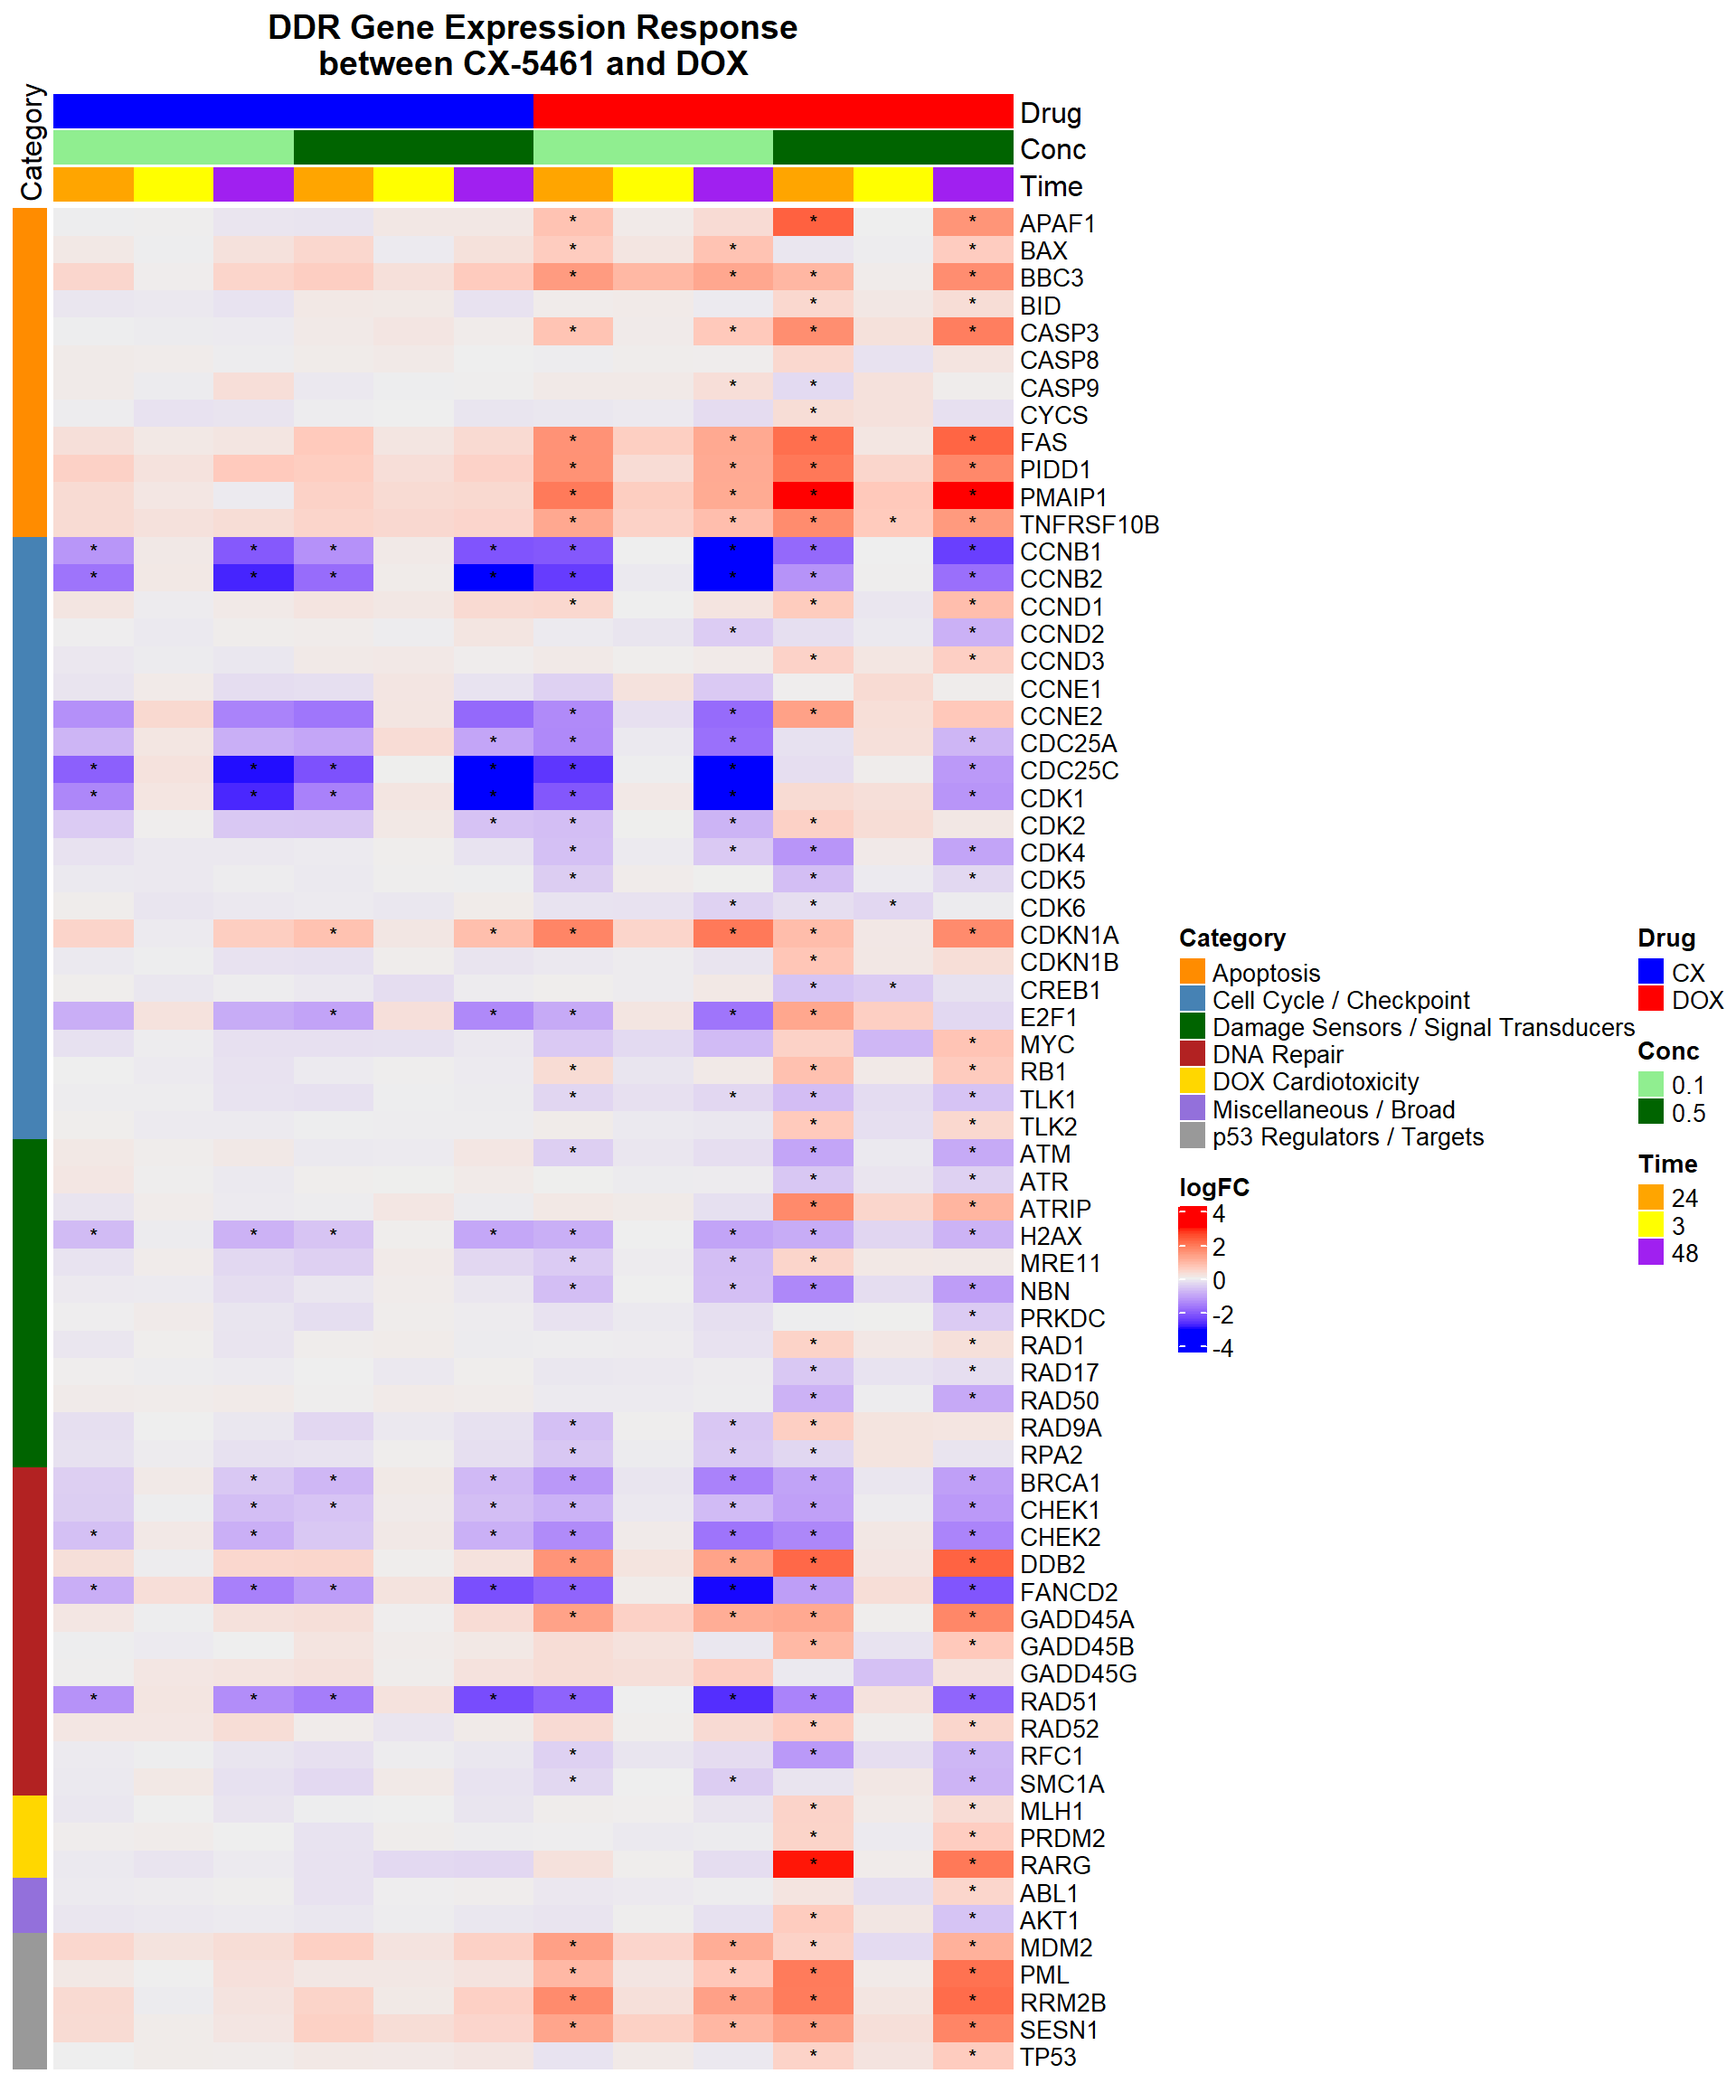
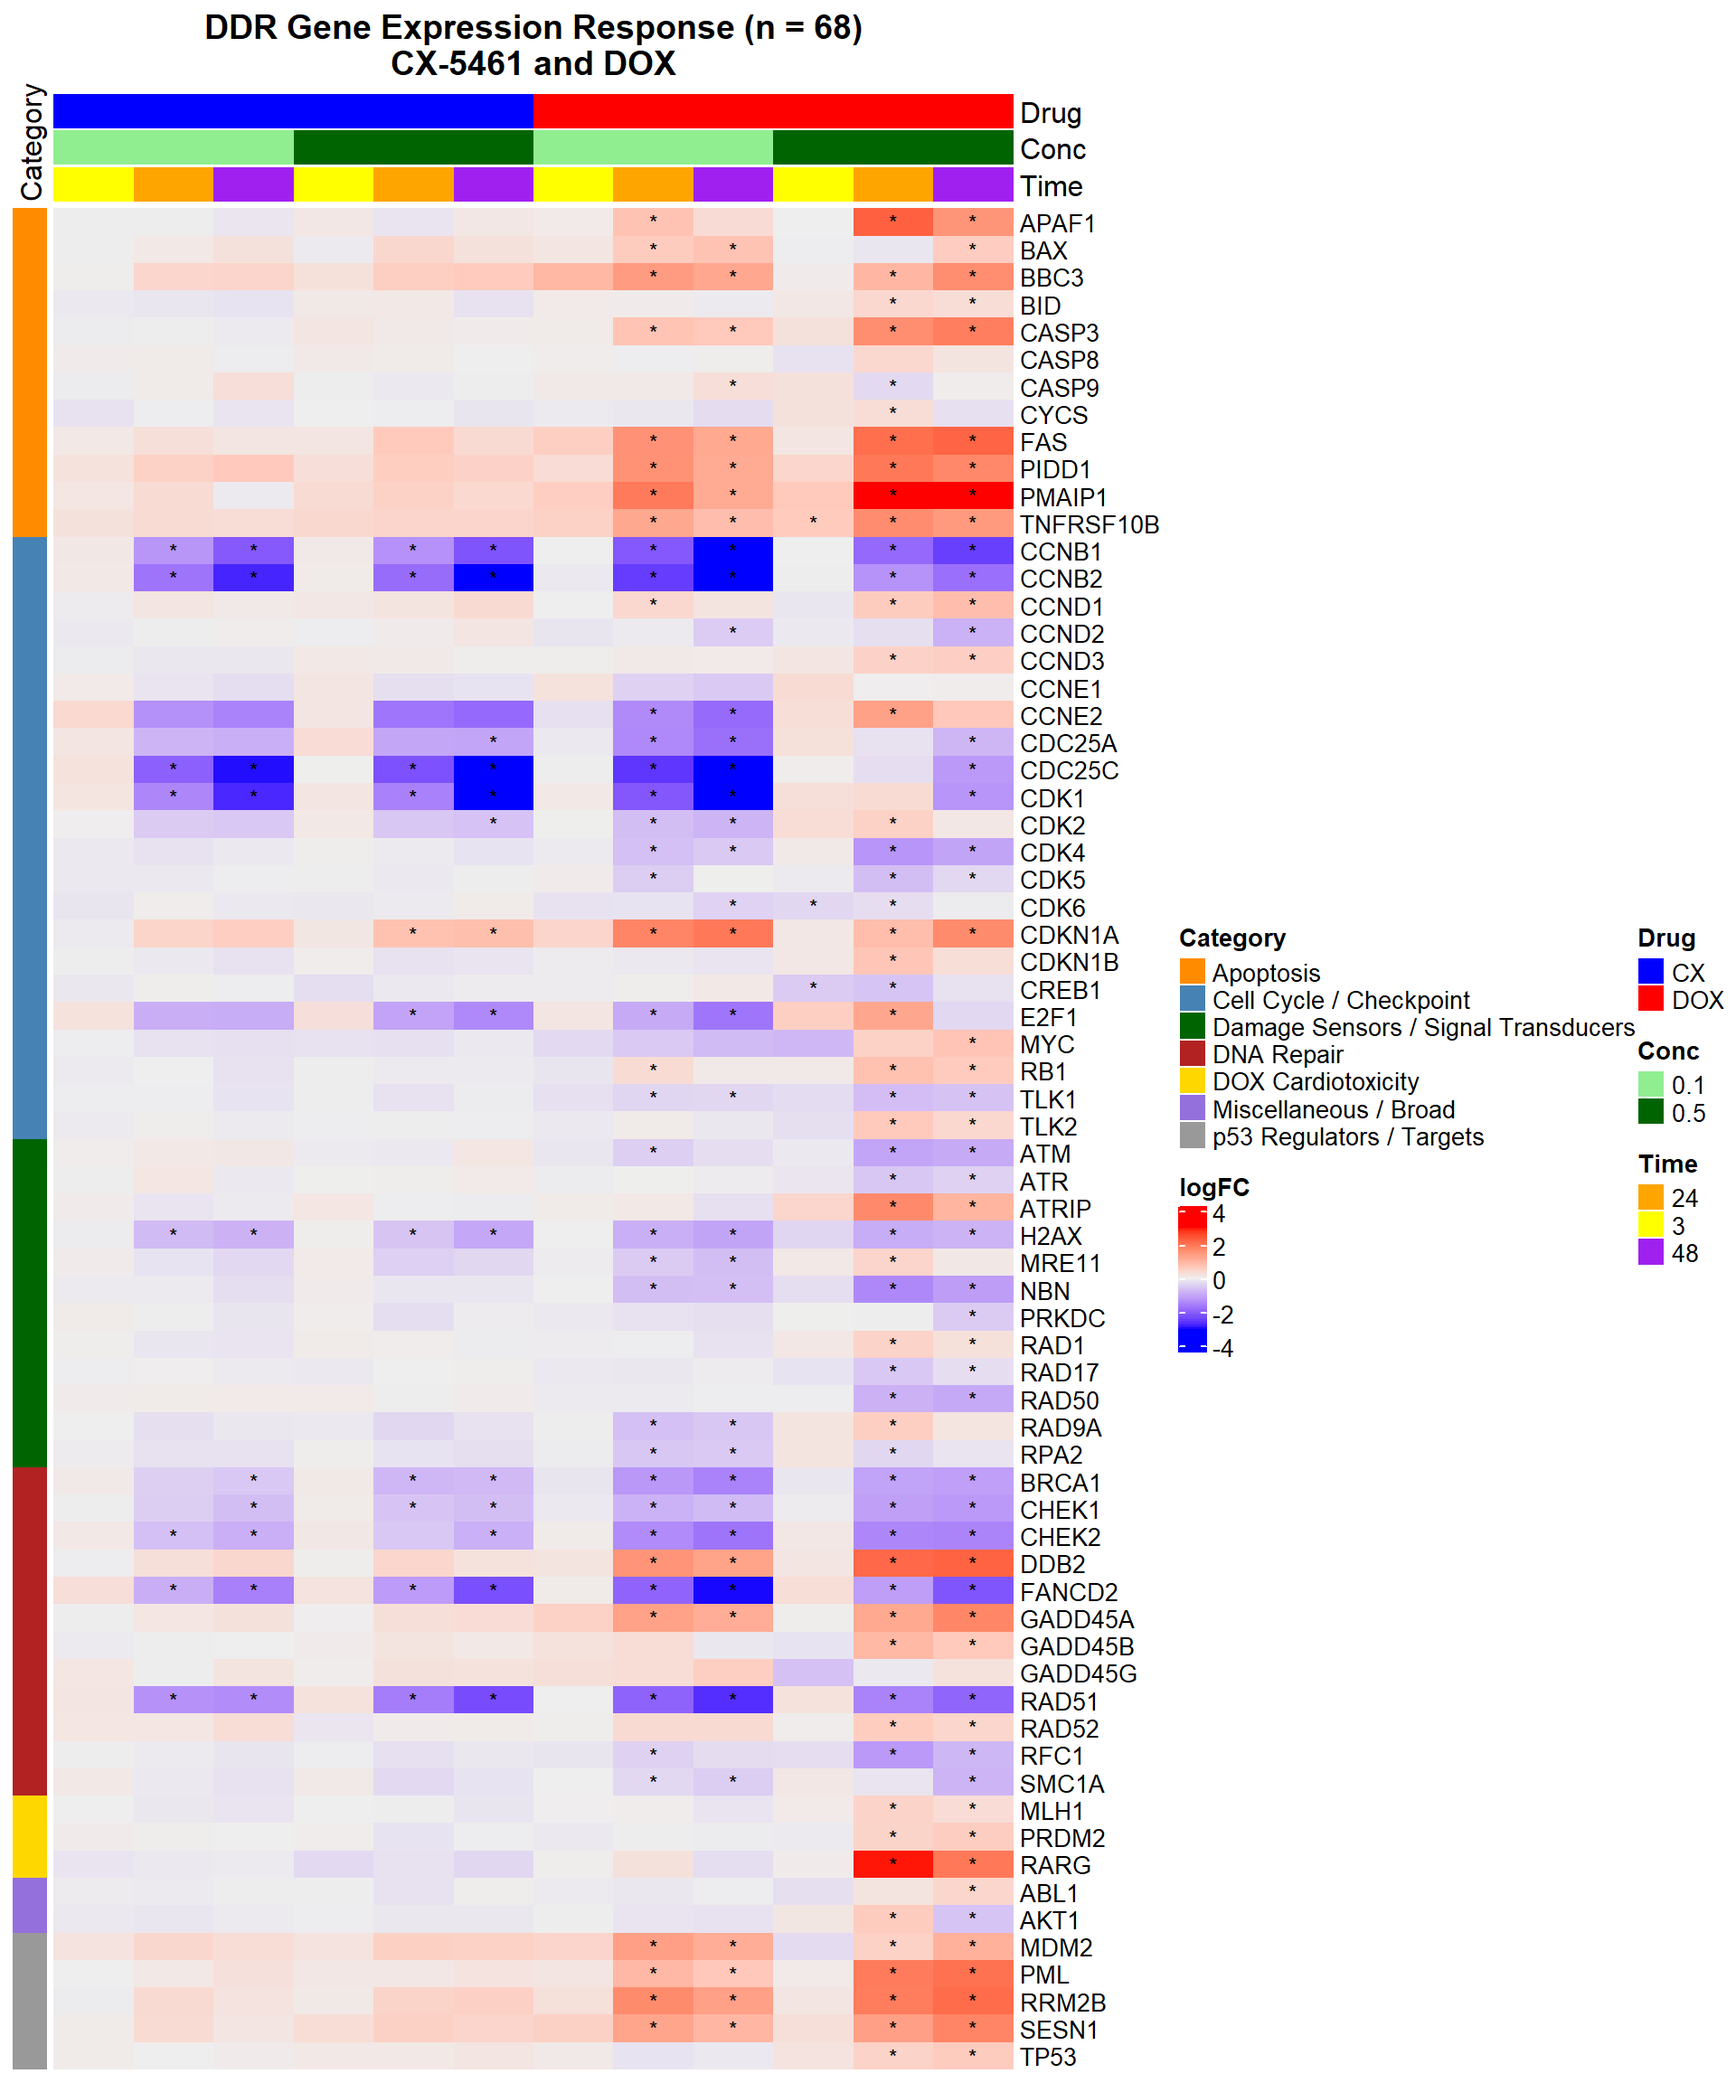
Commit

diff --git a/docs/DGE_Analysis.html b/docs/DGE_Analysis.html
@@ -357,7 +357,7 @@ div.tocify {
 <p>
 <button type="button" class="btn btn-default btn-workflowr btn-workflowr-report" data-toggle="collapse" data-target="#workflowr-report">
 <span class="glyphicon glyphicon-list" aria-hidden="true"></span>
-workflowr <span class="glyphicon glyphicon-ok text-success"
+workflowr <span class="glyphicon glyphicon-exclamation-sign text-danger"
 aria-hidden="true"></span>
 </button>
 </p>
@@ -368,8 +368,8 @@ aria-hidden="true"></span>
 </li>
 <li>
 <a data-toggle="tab" href="#checks"> Checks <span
-class="glyphicon glyphicon-ok text-success" aria-hidden="true"></span>
-</a>
+class="glyphicon glyphicon-exclamation-sign text-danger"
+aria-hidden="true"></span> </a>
 </li>
 <li>
 <a data-toggle="tab" href="#versions">Past versions</a>
@@ -382,9 +382,9 @@ class="glyphicon glyphicon-ok text-success" aria-hidden="true"></span>
 </p>
 <p>
 <strong>Checks:</strong> <span
-class="glyphicon glyphicon-ok text-success" aria-hidden="true"></span> 7
+class="glyphicon glyphicon-ok text-success" aria-hidden="true"></span> 6
 <span class="glyphicon glyphicon-exclamation-sign text-danger"
-aria-hidden="true"></span> 0
+aria-hidden="true"></span> 1
 </p>
 <p>
 <strong>Knit directory:</strong> <code>CX5461_Project/</code> <span
@@ -407,18 +407,21 @@ versions</em> tab lists the development history.
 <div class="panel panel-default">
 <div class="panel-heading">
 <p class="panel-title">
-<a data-toggle="collapse" data-parent="#workflowr-checks" href="#strongRMarkdownfilestronguptodate">
-<span class="glyphicon glyphicon-ok text-success"
-aria-hidden="true"></span> <strong>R Markdown file:</strong> up-to-date
-</a>
+<a data-toggle="collapse" data-parent="#workflowr-checks" href="#strongRMarkdownfilestronguncommittedchanges">
+<span class="glyphicon glyphicon-exclamation-sign text-danger"
+aria-hidden="true"></span> <strong>R Markdown file:</strong> uncommitted
+changes </a>
 </p>
 </div>
-<div id="strongRMarkdownfilestronguptodate"
+<div id="strongRMarkdownfilestronguncommittedchanges"
 class="panel-collapse collapse">
 <div class="panel-body">
-<p>Great! Since the R Markdown file has been committed to the Git
-repository, you know the exact version of the code that produced these
-results.</p>
+<p>The R Markdown file has unstaged changes. To know which version of
+the R Markdown file created these results, you’ll want to first commit
+it to the Git repo. If you’re still working on the analysis, you can
+ignore this warning. When you’re finished, you can run
+<code>wflow_publish</code> to commit the R Markdown file and build the
+HTML.</p>
 </div>
 </div>
 </div>
@@ -509,15 +512,15 @@ project makes it easier to run your code on other machines.</p>
 <div class="panel panel-default">
 <div class="panel-heading">
 <p class="panel-title">
-<a data-toggle="collapse" data-parent="#workflowr-checks" href="#strongRepositoryversionstrongahrefhttpsgithubcomsayanpaul01CX5461Projecttree3d33304d85bf2b6b87a3d324bc3a9d5e93720619targetblank3d33304a">
+<a data-toggle="collapse" data-parent="#workflowr-checks" href="#strongRepositoryversionstrongahrefhttpsgithubcomsayanpaul01CX5461Projecttreeef120cdbac14259c8108fd6c61120ad8326225d7targetblankef120cda">
 <span class="glyphicon glyphicon-ok text-success"
 aria-hidden="true"></span> <strong>Repository version:</strong>
-<a href="https://github.com/sayanpaul01/CX5461_Project/tree/3d33304d85bf2b6b87a3d324bc3a9d5e93720619" target="_blank">3d33304</a>
+<a href="https://github.com/sayanpaul01/CX5461_Project/tree/ef120cdbac14259c8108fd6c61120ad8326225d7" target="_blank">ef120cd</a>
 </a>
 </p>
 </div>
 <div
[2 lines of base64/hex data omitted]
 class="panel-collapse collapse">
 <div class="panel-body">
 <p>
@@ -527,7 +530,7 @@ reproducibility.
 </p>
 <p>
 The results in this page were generated with repository version
-<a href="https://github.com/sayanpaul01/CX5461_Project/tree/3d33304d85bf2b6b87a3d324bc3a9d5e93720619" target="_blank">3d33304</a>.
+<a href="https://github.com/sayanpaul01/CX5461_Project/tree/ef120cdbac14259c8108fd6c61120ad8326225d7" target="_blank">ef120cd</a>.
 See the <em>Past versions</em> tab to see a history of the changes made
 to the R Markdown and HTML files.
 </p>
@@ -589,8 +592,6 @@ Untracked files:
     Untracked:  data/CAD_genes.csv
     Untracked:  data/Cardiotox.csv
     Untracked:  data/Cardiotox_mapped.csv
-    Untracked:  data/DDR.csv
-    Untracked:  data/DDR_Mapped.csv
     Untracked:  data/DOX_Vald.csv
     Untracked:  data/DOX_Vald_Mapped.csv
     Untracked:  data/Entrez_Cardiotox.csv
@@ -633,6 +634,7 @@ Untracked files:
 
 Unstaged changes:
     Deleted:    analysis/Actox.Rmd
+    Modified:   analysis/DGE_Analysis.Rmd
 
 </code></pre>
 <p>
@@ -678,6 +680,23 @@ Message
 </tr>
 </thead>
 <tbody>
+<tr>
+<td>
+html
+</td>
+<td>
+<a href="https://rawcdn.githack.com/sayanpaul01/CX5461_Project/dcf1e50fd654002fbd5ada235cd7e5956b9da7a8/docs/DGE_Analysis.html" target="_blank">dcf1e50</a>
+</td>
+<td>
+sayanpaul01
+</td>
+<td>
+2025-05-09
+</td>
+<td>
+Commit
+</td>
+</tr>
 <tr>
 <td>
 Rmd
@@ -2627,7 +2646,7 @@ sayanpaul01
 class="section level2">
 <h2><strong>📌 DNA Damage Marker expression changes between CX5461 and
 DOX</strong></h2>
-<pre class="r"><code># 📌 DNA Damage Marker expression changes between CX5461 and DOX
+<pre class="r"><code># 📌 DDR Gene Expression Heatmap — CX-5461 and DOX (68 genes, with categories)
 
 # Load libraries
 library(tidyverse)
@@ -2640,22 +2659,20 @@ library(reshape2)
 # Load DEG files
 load_deg &lt;- function(path) read.csv(path)
 
-deg_list &lt;- list(
-  &quot;CX_0.1_3&quot; = load_deg(&quot;data/DEGs/Toptable_CX_0.1_3.csv&quot;),
-  &quot;CX_0.1_24&quot; = load_deg(&quot;data/DEGs/Toptable_CX_0.1_24.csv&quot;),
-  &quot;CX_0.1_48&quot; = load_deg(&quot;data/DEGs/Toptable_CX_0.1_48.csv&quot;),
-  &quot;CX_0.5_3&quot; = load_deg(&quot;data/DEGs/Toptable_CX_0.5_3.csv&quot;),
-  &quot;CX_0.5_24&quot; = load_deg(&quot;data/DEGs/Toptable_CX_0.5_24.csv&quot;),
-  &quot;CX_0.5_48&quot; = load_deg(&quot;data/DEGs/Toptable_CX_0.5_48.csv&quot;),
-  &quot;DOX_0.1_3&quot; = load_deg(&quot;data/DEGs/Toptable_DOX_0.1_3.csv&quot;),
-  &quot;DOX_0.1_24&quot; = load_deg(&quot;data/DEGs/Toptable_DOX_0.1_24.csv&quot;),
-  &quot;DOX_0.1_48&quot; = load_deg(&quot;data/DEGs/Toptable_DOX_0.1_48.csv&quot;),
-  &quot;DOX_0.5_3&quot; = load_deg(&quot;data/DEGs/Toptable_DOX_0.5_3.csv&quot;),
-  &quot;DOX_0.5_24&quot; = load_deg(&quot;data/DEGs/Toptable_DOX_0.5_24.csv&quot;),
-  &quot;DOX_0.5_48&quot; = load_deg(&quot;data/DEGs/Toptable_DOX_0.5_48.csv&quot;)
-)
+CX_0.1_3 &lt;- load_deg(&quot;data/DEGs/Toptable_CX_0.1_3.csv&quot;)
+CX_0.1_24 &lt;- load_deg(&quot;data/DEGs/Toptable_CX_0.1_24.csv&quot;)
+CX_0.1_48 &lt;- load_deg(&quot;data/DEGs/Toptable_CX_0.1_48.csv&quot;)
+CX_0.5_3 &lt;- load_deg(&quot;data/DEGs/Toptable_CX_0.5_3.csv&quot;)
+CX_0.5_24 &lt;- load_deg(&quot;data/DEGs/Toptable_CX_0.5_24.csv&quot;)
+CX_0.5_48 &lt;- load_deg(&quot;data/DEGs/Toptable_CX_0.5_48.csv&quot;)
+DOX_0.1_3 &lt;- load_deg(&quot;data/DEGs/Toptable_DOX_0.1_3.csv&quot;)
+DOX_0.1_24 &lt;- load_deg(&quot;data/DEGs/Toptable_DOX_0.1_24.csv&quot;)
+DOX_0.1_48 &lt;- load_deg(&quot;data/DEGs/Toptable_DOX_0.1_48.csv&quot;)
+DOX_0.5_3 &lt;- load_deg(&quot;data/DEGs/Toptable_DOX_0.5_3.csv&quot;)
+DOX_0.5_24 &lt;- load_deg(&quot;data/DEGs/Toptable_DOX_0.5_24.csv&quot;)
+DOX_0.5_48 &lt;- load_deg(&quot;data/DEGs/Toptable_DOX_0.5_48.csv&quot;)
 
-# Final 68-gene category mapping (curated and verified)
+# Final Entrez IDs and categories (68 genes)
 entrez_category &lt;- tribble(
   ~ENTREZID, ~Category,
   317, &quot;Apoptosis&quot;, 355, &quot;Apoptosis&quot;, 581, &quot;Apoptosis&quot;, 637, &quot;Apoptosis&quot;,
@@ -2675,8 +2692,8 @@ entrez_category &lt;- tribble(
   6118, &quot;Damage Sensors / Signal Transducers&quot;, 4361, &quot;Damage Sensors / Signal Transducers&quot;,
   10111, &quot;Damage Sensors / Signal Transducers&quot;, 4683, &quot;Damage Sensors / Signal Transducers&quot;,
   84126, &quot;Damage Sensors / Signal Transducers&quot;, 3014, &quot;Damage Sensors / Signal Transducers&quot;,
-  672, &quot;DNA Repair&quot;, 2177, &quot;DNA Repair&quot;, 5888, &quot;DNA Repair&quot;, 5893, &quot;DNA Repair&quot;, 
-  1647, &quot;DNA Repair&quot;, 4616, &quot;DNA Repair&quot;, 10912, &quot;DNA Repair&quot;, 1111, &quot;DNA Repair&quot;, 
+  672, &quot;DNA Repair&quot;, 2177, &quot;DNA Repair&quot;, 5888, &quot;DNA Repair&quot;, 5893, &quot;DNA Repair&quot;,
+  1647, &quot;DNA Repair&quot;, 4616, &quot;DNA Repair&quot;, 10912, &quot;DNA Repair&quot;, 1111, &quot;DNA Repair&quot;,
   11200, &quot;DNA Repair&quot;, 1643, &quot;DNA Repair&quot;, 8243, &quot;DNA Repair&quot;, 5981, &quot;DNA Repair&quot;,
   7157, &quot;p53 Regulators / Targets&quot;, 4193, &quot;p53 Regulators / Targets&quot;, 5371, &quot;p53 Regulators / Targets&quot;,
   27244, &quot;p53 Regulators / Targets&quot;, 50484, &quot;p53 Regulators / Targets&quot;,
@@ -2684,37 +2701,46 @@ entrez_category &lt;- tribble(
   207, &quot;Miscellaneous / Broad&quot;, 25, &quot;Miscellaneous / Broad&quot;
 )
 
-# Filter Entrez IDs
 entrez_ids &lt;- entrez_category$ENTREZID
 
-# Extract DEG subset
+# Extract relevant DEG values
 extract_data &lt;- function(df, name) {
   df %&gt;%
     filter(Entrez_ID %in% entrez_ids) %&gt;%
-    mutate(Gene = mapIds(org.Hs.eg.db, as.character(Entrez_ID),
-                         column = &quot;SYMBOL&quot;, keytype = &quot;ENTREZID&quot;, multiVals = &quot;first&quot;),
-           Condition = name,
-           Signif = ifelse(adj.P.Val &lt; 0.05, &quot;*&quot;, &quot;&quot;))
+    mutate(
+      Gene = mapIds(org.Hs.eg.db, as.character(Entrez_ID),
+                    column = &quot;SYMBOL&quot;, keytype = &quot;ENTREZID&quot;, multiVals = &quot;first&quot;),
+      Condition = name,
+      Signif = ifelse(adj.P.Val &lt; 0.05, &quot;*&quot;, &quot;&quot;)
+    )
 }
 
-# Combine and annotate
+# DEG list
+deg_list &lt;- list(
+  &quot;CX_0.1_3&quot; = CX_0.1_3, &quot;CX_0.1_24&quot; = CX_0.1_24, &quot;CX_0.1_48&quot; = CX_0.1_48,
+  &quot;CX_0.5_3&quot; = CX_0.5_3, &quot;CX_0.5_24&quot; = CX_0.5_24, &quot;CX_0.5_48&quot; = CX_0.5_48,
+  &quot;DOX_0.1_3&quot; = DOX_0.1_3, &quot;DOX_0.1_24&quot; = DOX_0.1_24, &quot;DOX_0.1_48&quot; = DOX_0.1_48,
+  &quot;DOX_0.5_3&quot; = DOX_0.5_3, &quot;DOX_0.5_24&quot; = DOX_0.5_24, &quot;DOX_0.5_48&quot; = DOX_0.5_48
+)
+
+# Combine all DEGs and annotate
 all_data &lt;- bind_rows(mapply(extract_data, deg_list, names(deg_list), SIMPLIFY = FALSE)) %&gt;%
   left_join(entrez_category, by = c(&quot;Entrez_ID&quot; = &quot;ENTREZID&quot;))
 
-# Create logFC and significance matrices
+# Create matrices
 logFC_mat &lt;- acast(all_data, Gene ~ Condition, value.var = &quot;logFC&quot;)
 signif_mat &lt;- acast(all_data, Gene ~ Condition, value.var = &quot;Signif&quot;)
 
-# Order rows by category
-gene_order_df &lt;- all_data %&gt;%
-  distinct(Gene, Category) %&gt;%
-  arrange(factor(Category, levels = sort(unique(entrez_category$Category))), Gene)
+# Set desired order
+desired_order &lt;- c(&quot;CX_0.1_3&quot;, &quot;CX_0.1_24&quot;, &quot;CX_0.1_48&quot;,
+                   &quot;CX_0.5_3&quot;, &quot;CX_0.5_24&quot;, &quot;CX_0.5_48&quot;,
+                   &quot;DOX_0.1_3&quot;, &quot;DOX_0.1_24&quot;, &quot;DOX_0.1_48&quot;,
+                   &quot;DOX_0.5_3&quot;, &quot;DOX_0.5_24&quot;, &quot;DOX_0.5_48&quot;)
 
-ordered_genes &lt;- gene_order_df$Gene
-logFC_mat &lt;- logFC_mat[ordered_genes, ]
-signif_mat &lt;- signif_mat[ordered_genes, ]
+logFC_mat &lt;- logFC_mat[, desired_order, drop = FALSE]
+signif_mat &lt;- signif_mat[, desired_order, drop = FALSE]
 
-# Top annotation
+# Column annotation
 meta &lt;- str_split_fixed(colnames(logFC_mat), &quot;_&quot;, 3)
 col_annot &lt;- HeatmapAnnotation(
   Drug = meta[, 1],
@@ -2729,6 +2755,14 @@ col_annot &lt;- HeatmapAnnotation(
 )
 
 # Row annotation
+gene_order_df &lt;- all_data %&gt;%
+  distinct(Gene, Category) %&gt;%
+  arrange(factor(Category, levels = sort(unique(entrez_category$Category))), Gene)
+
+ordered_genes &lt;- gene_order_df$Gene
+logFC_mat &lt;- logFC_mat[ordered_genes, ]
+signif_mat &lt;- signif_mat[ordered_genes, ]
+
 category_colors &lt;- structure(
   c(&quot;darkorange&quot;, &quot;steelblue&quot;, &quot;darkgreen&quot;, &quot;firebrick&quot;, &quot;gold&quot;, &quot;mediumpurple&quot;, &quot;gray60&quot;),
   names = sort(unique(entrez_category$Category))
@@ -2740,7 +2774,7 @@ ha_left &lt;- rowAnnotation(
   annotation_name_side = &quot;top&quot;
 )
 
-# Heatmap
+# Final Heatmap
 Heatmap(logFC_mat,
         name = &quot;logFC&quot;,
         top_annotation = col_annot,
@@ -2750,7 +2784,7 @@ Heatmap(logFC_mat,
         show_row_names = TRUE,
         show_column_names = FALSE,
         row_names_gp = gpar(fontsize = 10),
-        column_title = &quot;DDR Gene Expression Response\nbetween CX-5461 and DOX&quot;,
+        column_title = &quot;DDR Gene Expression Response (n = 68)\nCX-5461 and DOX&quot;,
         column_title_gp = gpar(fontsize = 14, fontface = &quot;bold&quot;),
         cell_fun = function(j, i, x, y, width, height, fill) {
           grid.text(signif_mat[i, j], x, y, gp = gpar(fontsize = 9))
